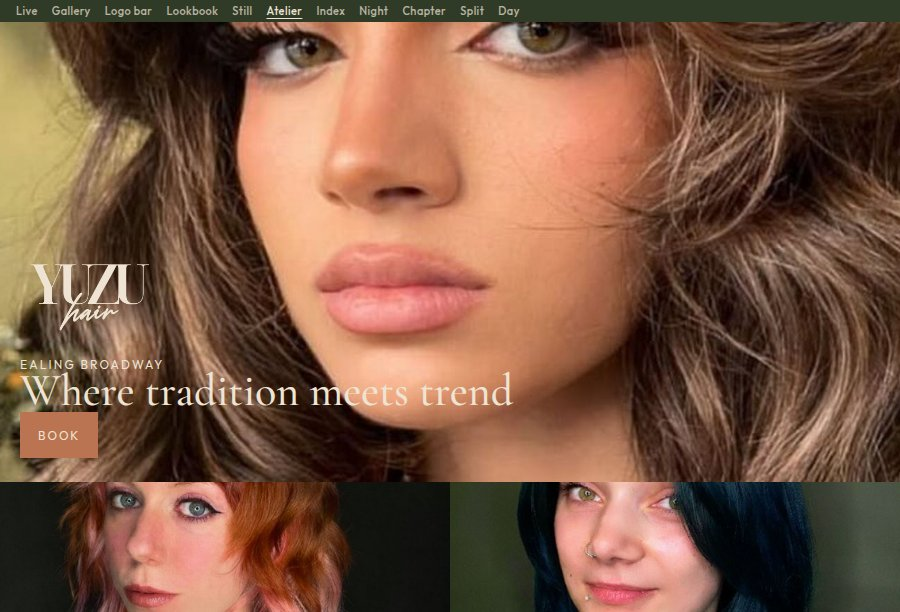
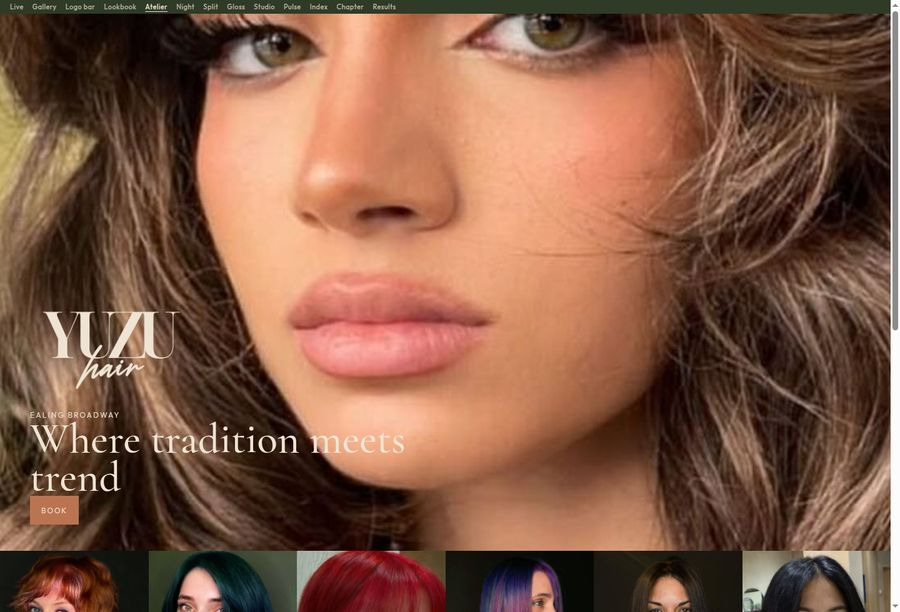
Use three Results looks on the live page, and refresh Pulse, Studio, Gloss, and Atelier.
Pulse opens on the salon floor. Studio carries a flower above the place line. Gloss keeps one row, with Cut in progress in place of Braided finish. The Atelier wordmark is larger, and the photo credit is gone from those footers.

diff --git a/site/versions/gloss.html b/site/versions/gloss.html
@@ -8,7 +8,7 @@
   <link rel="stylesheet" href="fonts/fonts.css" />
   <link rel="stylesheet" href="brand.css?v=2" />
   <link rel="stylesheet" href="promo.css?v=4" />
-  <link rel="stylesheet" href="fresh.css?v=4" />
+  <link rel="stylesheet" href="fresh.css?v=5" />
   <meta name="robots" content="noindex" />
   <link rel="stylesheet" href="versions-bar.css?v=5" />
 </head>
@@ -62,26 +62,8 @@
       </li>
       <li>
         <figure>
-          <span class="shine"><img src="img/fresh/braid-finish.jpg" alt="Braids finished in a salon chair" width="1200" height="1800" loading="lazy" /></span>
-          <figcaption>Braided finish</figcaption>
-        </figure>
-      </li>
-      <li>
-        <figure>
           <span class="shine"><img src="img/fresh/stylist-cutting.jpg" alt="A stylist cutting hair" width="1800" height="1200" loading="lazy" /></span>
           <figcaption>Cut in progress</figcaption>
-        </figure>
-      </li>
-      <li>
-        <figure>
-          <span class="shine"><img src="img/fresh/salon-interior.jpg" alt="A modern salon seen from the street" width="1800" height="1009" loading="lazy" /></span>
-          <figcaption>Salon light</figcaption>
-        </figure>
-      </li>
-      <li>
-        <figure>
-          <span class="shine"><img src="img/fresh/salon-floor-wide.jpg" alt="A working salon floor" width="1800" height="1200" loading="lazy" /></span>
-          <figcaption>Salon floor</figcaption>
         </figure>
       </li>
     </ul>
@@ -232,8 +214,7 @@
       <h2>Hours</h2>
       <p>Tuesday – Friday, 10am – 8pm<br />Saturday, 9am – 6pm<br />Monday &amp; Sunday, closed</p>
     </div>
-    <p class="credit">Photographs: soft blonde and copper balayage, Yuzu Hair. Long blonde waves, ivanovgood, CC0. Salon interior, Ka23 13, CC BY-SA 4.0. Stylist cutting, Rohit Verma, CC BY-SA 4.0. Braids, Rwebogora, CC BY-SA 4.0. Salon floor, Mostafa Meraji, CC0. Via Wikimedia Commons. The other photographs are not of Yuzu clients.</p>
-    <p class="legal">© 2026 Yuzu Hair &amp; Beauty · <a href="https://yuzu.hair/about/">About</a> · <a href="https://yuzu.hair/questions/">Questions</a> · <a href="https://yuzu.hair/patch/">Patch testing</a> · <a href="https://yuzu.hair/terms/">Terms</a> · <a href="https://yuzu.hair/privacy/">Privacy</a></p>
+        <p class="legal">© 2026 Yuzu Hair &amp; Beauty · <a href="https://yuzu.hair/about/">About</a> · <a href="https://yuzu.hair/questions/">Questions</a> · <a href="https://yuzu.hair/patch/">Patch testing</a> · <a href="https://yuzu.hair/terms/">Terms</a> · <a href="https://yuzu.hair/privacy/">Privacy</a></p>
   </footer>
   <script src="menu.js?v=2"></script>
   <script src="logo-home.js?v=1"></script>

diff --git a/site/index.html b/site/index.html
@@ -164,21 +164,21 @@
             </div>
             <ul class="round-gallery">
               <li>
-                <button type="button" class="round-shot" data-lightbox data-title="Copper &amp; rose" data-alt="Copper and rose colour with textured fringe">
-                  <img src="assets/gallery/1.jpg" alt="Copper and rose colour with textured fringe" width="567" height="567" />
-                  <span aria-hidden="true">Copper &amp; rose</span>
+                <button type="button" class="round-shot" data-lightbox data-title="Soft blonde" data-alt="Soft blonde layers, photographed in the salon">
+                  <img src="versions/img/looks/blonde-layers.jpg" alt="Soft blonde layers, photographed in the salon" width="1080" height="1080" />
+                  <span aria-hidden="true">Soft blonde</span>
                 </button>
               </li>
               <li>
-                <button type="button" class="round-shot" data-lightbox data-title="Long and sleek" data-alt="Long sleek dark hair, freshly styled in salon">
-                  <img src="assets/gallery/2.jpg" alt="Long sleek dark hair, freshly styled in salon" width="567" height="567" />
-                  <span aria-hidden="true">Long and sleek</span>
+                <button type="button" class="round-shot" data-lightbox data-title="Copper balayage" data-alt="Copper balayage, seen from behind in the salon chair">
+                  <img src="versions/img/looks/copper-balayage.jpg" alt="Copper balayage, seen from behind in the salon chair" width="1080" height="1137" />
+                  <span aria-hidden="true">Copper balayage</span>
                 </button>
               </li>
               <li>
-                <button type="button" class="round-shot" data-lightbox data-title="Red bob" data-alt="Vivid red bob with a blunt fringe">
-                  <img src="assets/gallery/5.jpg" alt="Vivid red bob with a blunt fringe" width="567" height="567" />
-                  <span aria-hidden="true">Red bob</span>
+                <button type="button" class="round-shot" data-lightbox data-title="Long and straight" data-alt="Long straight hair, centre-parted">
+                  <img src="versions/img/looks/long-straight.jpg" alt="Long straight hair, centre-parted" width="1080" height="1080" />
+                  <span aria-hidden="true">Long and straight</span>
                 </button>
               </li>
             </ul>

diff --git a/site/versions/pulse.html b/site/versions/pulse.html
@@ -8,7 +8,7 @@
   <link rel="stylesheet" href="fonts/fonts.css" />
   <link rel="stylesheet" href="brand.css?v=2" />
   <link rel="stylesheet" href="promo.css?v=4" />
-  <link rel="stylesheet" href="fresh.css?v=4" />
+  <link rel="stylesheet" href="fresh.css?v=5" />
   <meta name="robots" content="noindex" />
   <link rel="stylesheet" href="versions-bar.css?v=5" />
 </head>
@@ -31,7 +31,7 @@
     </nav>
   </header>
   <section class="hero hero-float">
-    <span class="shine hero-photo"><img src="img/looks/copper-balayage.jpg" alt="Copper balayage, seen from behind in the salon chair" width="1080" height="1137" fetchpriority="high" /></span>
+    <span class="shine hero-photo"><img src="img/fresh/salon-floor-wide.jpg" alt="A working salon floor" width="1800" height="1200" fetchpriority="high" /></span>
     <div class="hero-copy">
       <p class="kicker">Dickens Yard · Ealing Broadway</p>
       <h1>Where tradition meets trend</h1>
@@ -232,8 +232,7 @@
       <h2>Hours</h2>
       <p>Tuesday – Friday, 10am – 8pm<br />Saturday, 9am – 6pm<br />Monday &amp; Sunday, closed</p>
     </div>
-    <p class="credit">Photographs: soft blonde and copper balayage, Yuzu Hair. Long blonde waves, ivanovgood, CC0. Salon interior, Ka23 13, CC BY-SA 4.0. Stylist cutting, Rohit Verma, CC BY-SA 4.0. Braids, Rwebogora, CC BY-SA 4.0. Salon floor, Mostafa Meraji, CC0. Via Wikimedia Commons. The other photographs are not of Yuzu clients.</p>
-    <p class="legal">© 2026 Yuzu Hair &amp; Beauty · <a href="https://yuzu.hair/about/">About</a> · <a href="https://yuzu.hair/questions/">Questions</a> · <a href="https://yuzu.hair/patch/">Patch testing</a> · <a href="https://yuzu.hair/terms/">Terms</a> · <a href="https://yuzu.hair/privacy/">Privacy</a></p>
+        <p class="legal">© 2026 Yuzu Hair &amp; Beauty · <a href="https://yuzu.hair/about/">About</a> · <a href="https://yuzu.hair/questions/">Questions</a> · <a href="https://yuzu.hair/patch/">Patch testing</a> · <a href="https://yuzu.hair/terms/">Terms</a> · <a href="https://yuzu.hair/privacy/">Privacy</a></p>
   </footer>
   <script src="menu.js?v=2"></script>
   <script src="logo-home.js?v=1"></script>

diff --git a/site/versions/studio.html b/site/versions/studio.html
@@ -8,7 +8,7 @@
   <link rel="stylesheet" href="fonts/fonts.css" />
   <link rel="stylesheet" href="brand.css?v=2" />
   <link rel="stylesheet" href="promo.css?v=4" />
-  <link rel="stylesheet" href="fresh.css?v=4" />
+  <link rel="stylesheet" href="fresh.css?v=5" />
   <meta name="robots" content="noindex" />
   <link rel="stylesheet" href="versions-bar.css?v=5" />
 </head>
@@ -32,6 +32,7 @@
   </header>
   <section class="hero hero-split">
     <div class="hero-copy">
+      <span class="hero-mark" aria-hidden="true"></span>
       <p class="kicker">Dickens Yard · Ealing Broadway</p>
       <h1>Where tradition meets trend</h1>
       <p class="lede">Japanese-inspired cuts, colour and smoothing, a short walk from Ealing Broadway station.</p>
@@ -232,8 +233,7 @@
       <h2>Hours</h2>
       <p>Tuesday – Friday, 10am – 8pm<br />Saturday, 9am – 6pm<br />Monday &amp; Sunday, closed</p>
     </div>
-    <p class="credit">Photographs: soft blonde and copper balayage, Yuzu Hair. Long blonde waves, ivanovgood, CC0. Salon interior, Ka23 13, CC BY-SA 4.0. Stylist cutting, Rohit Verma, CC BY-SA 4.0. Braids, Rwebogora, CC BY-SA 4.0. Salon floor, Mostafa Meraji, CC0. Via Wikimedia Commons. The other photographs are not of Yuzu clients.</p>
-    <p class="legal">© 2026 Yuzu Hair &amp; Beauty · <a href="https://yuzu.hair/about/">About</a> · <a href="https://yuzu.hair/questions/">Questions</a> · <a href="https://yuzu.hair/patch/">Patch testing</a> · <a href="https://yuzu.hair/terms/">Terms</a> · <a href="https://yuzu.hair/privacy/">Privacy</a></p>
+        <p class="legal">© 2026 Yuzu Hair &amp; Beauty · <a href="https://yuzu.hair/about/">About</a> · <a href="https://yuzu.hair/questions/">Questions</a> · <a href="https://yuzu.hair/patch/">Patch testing</a> · <a href="https://yuzu.hair/terms/">Terms</a> · <a href="https://yuzu.hair/privacy/">Privacy</a></p>
   </footer>
   <script src="menu.js?v=2"></script>
   <script src="logo-home.js?v=1"></script>

diff --git a/site/versions/gloss-prices.html b/site/versions/gloss-prices.html
@@ -8,7 +8,7 @@
   <link rel="stylesheet" href="fonts/fonts.css" />
   <link rel="stylesheet" href="brand.css?v=2" />
   <link rel="stylesheet" href="promo.css?v=4" />
-  <link rel="stylesheet" href="fresh.css?v=4" />
+  <link rel="stylesheet" href="fresh.css?v=5" />
   <meta name="robots" content="noindex" />
   <link rel="stylesheet" href="versions-bar.css?v=5" />
 </head>
@@ -71,8 +71,7 @@
       <h2>Hours</h2>
       <p>Tuesday – Friday, 10am – 8pm<br />Saturday, 9am – 6pm<br />Monday &amp; Sunday, closed</p>
     </div>
-    <p class="credit">Photographs: soft blonde and copper balayage, Yuzu Hair. Long blonde waves, ivanovgood, CC0. Salon interior, Ka23 13, CC BY-SA 4.0. Stylist cutting, Rohit Verma, CC BY-SA 4.0. Braids, Rwebogora, CC BY-SA 4.0. Salon floor, Mostafa Meraji, CC0. Via Wikimedia Commons. The other photographs are not of Yuzu clients.</p>
-    <p class="legal">© 2026 Yuzu Hair &amp; Beauty · <a href="https://yuzu.hair/about/">About</a> · <a href="https://yuzu.hair/questions/">Questions</a> · <a href="https://yuzu.hair/patch/">Patch testing</a> · <a href="https://yuzu.hair/terms/">Terms</a> · <a href="https://yuzu.hair/privacy/">Privacy</a></p>
+        <p class="legal">© 2026 Yuzu Hair &amp; Beauty · <a href="https://yuzu.hair/about/">About</a> · <a href="https://yuzu.hair/questions/">Questions</a> · <a href="https://yuzu.hair/patch/">Patch testing</a> · <a href="https://yuzu.hair/terms/">Terms</a> · <a href="https://yuzu.hair/privacy/">Privacy</a></p>
   </footer>
   <script src="menu.js?v=2"></script>
   <script src="logo-home.js?v=1"></script>

diff --git a/site/versions/pulse-prices.html b/site/versions/pulse-prices.html
@@ -8,7 +8,7 @@
   <link rel="stylesheet" href="fonts/fonts.css" />
   <link rel="stylesheet" href="brand.css?v=2" />
   <link rel="stylesheet" href="promo.css?v=4" />
-  <link rel="stylesheet" href="fresh.css?v=4" />
+  <link rel="stylesheet" href="fresh.css?v=5" />
   <meta name="robots" content="noindex" />
   <link rel="stylesheet" href="versions-bar.css?v=5" />
 </head>
@@ -71,8 +71,7 @@
       <h2>Hours</h2>
       <p>Tuesday – Friday, 10am – 8pm<br />Saturday, 9am – 6pm<br />Monday &amp; Sunday, closed</p>
     </div>
-    <p class="credit">Photographs: soft blonde and copper balayage, Yuzu Hair. Long blonde waves, ivanovgood, CC0. Salon interior, Ka23 13, CC BY-SA 4.0. Stylist cutting, Rohit Verma, CC BY-SA 4.0. Braids, Rwebogora, CC BY-SA 4.0. Salon floor, Mostafa Meraji, CC0. Via Wikimedia Commons. The other photographs are not of Yuzu clients.</p>
-    <p class="legal">© 2026 Yuzu Hair &amp; Beauty · <a href="https://yuzu.hair/about/">About</a> · <a href="https://yuzu.hair/questions/">Questions</a> · <a href="https://yuzu.hair/patch/">Patch testing</a> · <a href="https://yuzu.hair/terms/">Terms</a> · <a href="https://yuzu.hair/privacy/">Privacy</a></p>
+        <p class="legal">© 2026 Yuzu Hair &amp; Beauty · <a href="https://yuzu.hair/about/">About</a> · <a href="https://yuzu.hair/questions/">Questions</a> · <a href="https://yuzu.hair/patch/">Patch testing</a> · <a href="https://yuzu.hair/terms/">Terms</a> · <a href="https://yuzu.hair/privacy/">Privacy</a></p>
   </footer>
   <script src="menu.js?v=2"></script>
   <script src="logo-home.js?v=1"></script>

diff --git a/site/versions/studio-prices.html b/site/versions/studio-prices.html
@@ -8,7 +8,7 @@
   <link rel="stylesheet" href="fonts/fonts.css" />
   <link rel="stylesheet" href="brand.css?v=2" />
   <link rel="stylesheet" href="promo.css?v=4" />
-  <link rel="stylesheet" href="fresh.css?v=4" />
+  <link rel="stylesheet" href="fresh.css?v=5" />
   <meta name="robots" content="noindex" />
   <link rel="stylesheet" href="versions-bar.css?v=5" />
 </head>
@@ -71,8 +71,7 @@
       <h2>Hours</h2>
       <p>Tuesday – Friday, 10am – 8pm<br />Saturday, 9am – 6pm<br />Monday &amp; Sunday, closed</p>
     </div>
-    <p class="credit">Photographs: soft blonde and copper balayage, Yuzu Hair. Long blonde waves, ivanovgood, CC0. Salon interior, Ka23 13, CC BY-SA 4.0. Stylist cutting, Rohit Verma, CC BY-SA 4.0. Braids, Rwebogora, CC BY-SA 4.0. Salon floor, Mostafa Meraji, CC0. Via Wikimedia Commons. The other photographs are not of Yuzu clients.</p>
-    <p class="legal">© 2026 Yuzu Hair &amp; Beauty · <a href="https://yuzu.hair/about/">About</a> · <a href="https://yuzu.hair/questions/">Questions</a> · <a href="https://yuzu.hair/patch/">Patch testing</a> · <a href="https://yuzu.hair/terms/">Terms</a> · <a href="https://yuzu.hair/privacy/">Privacy</a></p>
+        <p class="legal">© 2026 Yuzu Hair &amp; Beauty · <a href="https://yuzu.hair/about/">About</a> · <a href="https://yuzu.hair/questions/">Questions</a> · <a href="https://yuzu.hair/patch/">Patch testing</a> · <a href="https://yuzu.hair/terms/">Terms</a> · <a href="https://yuzu.hair/privacy/">Privacy</a></p>
   </footer>
   <script src="menu.js?v=2"></script>
   <script src="logo-home.js?v=1"></script>

diff --git a/site/versions/fresh.css b/site/versions/fresh.css
@@ -219,6 +219,21 @@ body.fx a.fx-ghost { border: 1px solid currentColor; }
   align-items: stretch;
 }
 .studio .hero-copy { display: flex; flex-direction: column; justify-content: flex-end; padding: 48px 40px 56px 48px; }
+.studio .hero-mark {
+  display: block;
+  width: 72px;
+  height: 96px;
+  margin: 0 0 18px;
+  background: var(--olive);
+  -webkit-mask-image: url("img/blossom-beige.png");
+  mask-image: url("img/blossom-beige.png");
+  -webkit-mask-repeat: no-repeat;
+  mask-repeat: no-repeat;
+  -webkit-mask-position: left center;
+  mask-position: left center;
+  -webkit-mask-size: contain;
+  mask-size: contain;
+}
 .studio .hero-copy h1 {
   margin: 14px 0 16px;
   font-family: var(--serif);
@@ -293,7 +308,7 @@ body.fx a.fx-ghost { border: 1px solid currentColor; }
 /* ——— Pulse: rounded, bright, a card over the picture ——— */
 .pulse .hero-float { padding: 22px 28px 0; }
 .pulse .hero-photo { height: min(56vh, 540px); border-radius: 28px; }
-.pulse .hero-photo img { object-position: center 8%; }
+.pulse .hero-photo img { object-position: center 42%; }
 .pulse .hero-copy {
   position: relative;
   z-index: 2;

diff --git a/site/versions/spread.css b/site/versions/spread.css
@@ -212,7 +212,7 @@ body.spread h1, body.spread h2, body.spread p { margin: 0; }
   bottom: 42px;
   color: var(--cream);
 }
-.at-caption img { width: 140px; margin-bottom: 18px; }
+.at-caption img { width: 260px; height: auto; object-fit: contain; margin-bottom: 18px; }
 .at-caption h1 { font-family: var(--serif); font-weight: 500; font-size: 68px; line-height: 0.9; max-width: 640px; }
 .at-caption p { margin: 14px 0 22px; letter-spacing: 0.18em; text-transform: uppercase; font-size: 12px; }
 .at-film { display: flex; background: var(--forest); }
@@ -470,6 +470,7 @@ body.spread .day-sheet.thu { background: var(--terra-deep); grid-template-column
   .st-days { grid-template-columns: 1fr; gap: 28px; }
   .at-hero { height: 72vh; min-height: 460px; }
   .at-caption { left: 20px; right: 20px; bottom: 24px; }
+  .at-caption img { width: 180px; }
   .at-caption h1 { font-size: 44px; }
   .at-film { flex-wrap: wrap; }
   .at-film a { flex: 1 1 46%; height: 180px; }

diff --git a/site/versions/lookbook.html b/site/versions/lookbook.html
@@ -6,7 +6,7 @@
   <title>Yuzu — Lookbook</title>
   <link rel="stylesheet" href="fonts/fonts.css" />
   <link rel="stylesheet" href="brand.css?v=2" />
-  <link rel="stylesheet" href="spread.css?v=7" />
+  <link rel="stylesheet" href="spread.css?v=8" />
   <link rel="stylesheet" href="promo.css?v=4" />
   <meta name="robots" content="noindex" />
   <link rel="stylesheet" href="versions-bar.css?v=5" />

diff --git a/site/versions/atelier.html b/site/versions/atelier.html
@@ -6,7 +6,7 @@
   <title>Yuzu — Atelier</title>
   <link rel="stylesheet" href="fonts/fonts.css" />
   <link rel="stylesheet" href="brand.css?v=2" />
-  <link rel="stylesheet" href="spread.css?v=7" />
+  <link rel="stylesheet" href="spread.css?v=8" />
   <meta name="robots" content="noindex" />
   <link rel="stylesheet" href="versions-bar.css?v=5" />
 </head>

diff --git a/site/versions/chapter.html b/site/versions/chapter.html
@@ -6,7 +6,7 @@
   <title>Yuzu — Chapter</title>
   <link rel="stylesheet" href="fonts/fonts.css" />
   <link rel="stylesheet" href="brand.css?v=2" />
-  <link rel="stylesheet" href="spread.css?v=7" />
+  <link rel="stylesheet" href="spread.css?v=8" />
   <meta name="robots" content="noindex" />
   <link rel="stylesheet" href="versions-bar.css?v=5" />
 </head>
